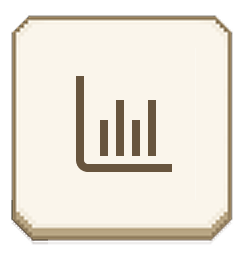
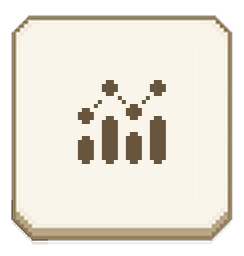
feat : 포착 도움말 모달과 권한 토스트 추가
- 포착 도움말 버튼 이미지를 변경하고 확률 안내 모달을 연결
- 카메라 권한 승인 후 하단 안내 토스트를 표시
- 모달 닫기 및 토스트 페이드 애니메이션을 적용

Changed region(s): [[0.2869, 0.2812, 0.7172, 0.6875]]

diff --git a/src/features/capture-photo/ui/CameraCaptureView.tsx b/src/features/capture-photo/ui/CameraCaptureView.tsx
@@ -5,7 +5,9 @@ import { useEffect, useRef, useState } from 'react';
 import {
   ActivityIndicator,
   Alert,
+  Animated,
   Image,
+  Modal,
   Pressable,
   StyleSheet,
   Text,
@@ -30,6 +32,8 @@ const SHUTTER_BUTTON_IMAGE = require('@/src/shared/assets/images/capture/shutter
 const CAPTURE_LIMIT_IMAGE = require('@/src/shared/assets/images/capture/capture-limit.png');
 const CAPTURE_COIN_DIALOG_IMAGE = require('@/src/shared/assets/images/capture/capture-coin-dialog.png');
 const CAMERA_PERMISSION_DIALOG_IMAGE = require('@/src/shared/assets/images/capture/camera-permission-dialog.png');
+const CAPTURE_PROBABILITY_MODAL_IMAGE = require('@/src/shared/assets/images/capture/capture-probability-modal.png');
+const CAMERA_PERMISSION_TOAST_IMAGE = require('@/src/shared/assets/images/capture/camera-permission-toast.png');
 const CAMERA_CARD_ASPECT_RATIO = 426 / 656;
 const CAMERA_CARD_HORIZONTAL_MARGIN = 11;
 const CAMERA_CARD_BUTTON_GAP = 24;
@@ -48,6 +52,10 @@ export function CameraCaptureView() {
   const [remainingCaptureCount, setRemainingCaptureCount] =
     useState(MAX_CAPTURE_COUNT);
   const [isCoinDialogVisible, setIsCoinDialogVisible] = useState(false);
+  const [isHelpModalVisible, setIsHelpModalVisible] = useState(false);
+  const [isPermissionToastVisible, setIsPermissionToastVisible] =
+    useState(false);
+  const permissionToastOpacity = useRef(new Animated.Value(0)).current;
   const insets = useSafeAreaInsets();
   const cameraCardTop = insets.top + 117;
   const bottomControlsTop =
@@ -69,6 +77,48 @@ export function CameraCaptureView() {
 
     return () => clearInterval(guideTimer);
   }, []);
+
+  useEffect(() => {
+    if (!isPermissionToastVisible || !permission?.granted) {
+      return;
+    }
+
+    permissionToastOpacity.setValue(0);
+
+    const toastAnimation = Animated.sequence([
+      Animated.timing(permissionToastOpacity, {
+        duration: 200,
+        toValue: 1,
+        useNativeDriver: true,
+      }),
+      Animated.delay(2000),
+      Animated.timing(permissionToastOpacity, {
+        duration: 200,
+        toValue: 0,
+        useNativeDriver: true,
+      }),
+    ]);
+
+    toastAnimation.start(({ finished }) => {
+      if (finished) {
+        setIsPermissionToastVisible(false);
+      }
+    });
+
+    return () => toastAnimation.stop();
+  }, [
+    isPermissionToastVisible,
+    permission?.granted,
+    permissionToastOpacity,
+  ]);
+
+  const handleRequestPermission = async () => {
+    const nextPermission = await requestPermission();
+
+    if (nextPermission.granted) {
+      setIsPermissionToastVisible(true);
+    }
+  };
 
   const handleCapture = async () => {
     if (
@@ -163,7 +213,7 @@ export function CameraCaptureView() {
             <Pressable
               accessibilityLabel="카메라 권한 허용하기"
               accessibilityRole="button"
-              onPress={requestPermission}
+              onPress={handleRequestPermission}
               style={styles.permissionDialogAllowButton}
             />
           </View>
@@ -331,12 +381,7 @@ export function CameraCaptureView() {
         <Pressable
           accessibilityLabel="촬영 도움말"
           accessibilityRole="button"
-          onPress={() =>
-            Alert.alert(
-              '촬영 도움말',
-              '동물이 흰색 프레임 안에 들어오도록 맞춘 뒤 촬영해 주세요.',
-            )
-          }
+          onPress={() => setIsHelpModalVisible(true)}
           style={({ pressed }) => [
             styles.helpButton,
             pressed && styles.buttonPressed,
@@ -349,6 +394,26 @@ export function CameraCaptureView() {
           />
         </Pressable>
       </View>
+
+      {isPermissionToastVisible && (
+        <Animated.View
+          pointerEvents="none"
+          style={[
+            styles.permissionToast,
+            {
+              bottom: insets.bottom + 108,
+              opacity: permissionToastOpacity,
+            },
+          ]}
+        >
+          <Image
+            accessibilityLabel="카메라 접근을 허용했습니다."
+            resizeMode="contain"
+            source={CAMERA_PERMISSION_TOAST_IMAGE}
+            style={styles.permissionToastImage}
+          />
+        </Animated.View>
+      )}
 
       {isCoinDialogVisible && (
         <View style={styles.dialogOverlay}>
@@ -380,6 +445,31 @@ export function CameraCaptureView() {
           </View>
         </View>
       )}
+
+      <Modal
+        animationType="fade"
+        onRequestClose={() => setIsHelpModalVisible(false)}
+        statusBarTranslucent
+        transparent
+        visible={isHelpModalVisible}
+      >
+        <View style={styles.helpModalOverlay}>
+          <View style={styles.helpModal}>
+            <Image
+              accessibilityLabel="내 포착 확률 보기"
+              resizeMode="contain"
+              source={CAPTURE_PROBABILITY_MODAL_IMAGE}
+              style={styles.helpModalImage}
+            />
+            <Pressable
+              accessibilityLabel="포착 확률 안내 닫기"
+              accessibilityRole="button"
+              onPress={() => setIsHelpModalVisible(false)}
+              style={styles.helpModalCloseButton}
+            />
+          </View>
+        </View>
+      </Modal>
     </View>
   );
 }
@@ -575,6 +665,17 @@ const styles = StyleSheet.create({
   disabledButton: {
     opacity: 0.45,
   },
+  permissionToast: {
+    position: 'absolute',
+    zIndex: 9,
+    width: 293,
+    height: 54,
+    alignSelf: 'center',
+  },
+  permissionToastImage: {
+    width: 293,
+    height: 54,
+  },
   dialogOverlay: {
     ...StyleSheet.absoluteFillObject,
     zIndex: 10,
@@ -610,6 +711,27 @@ const styles = StyleSheet.create({
     bottom: 30,
     width: 103,
     height: 36,
+  },
+  helpModalOverlay: {
+    flex: 1,
+    alignItems: 'center',
+    justifyContent: 'center',
+    backgroundColor: 'rgba(31, 29, 27, 0.68)',
+  },
+  helpModal: {
+    width: 328,
+    height: 626,
+  },
+  helpModalImage: {
+    width: 328,
+    height: 626,
+  },
+  helpModalCloseButton: {
+    position: 'absolute',
+    top: 8,
+    right: 8,
+    width: 40,
+    height: 40,
   },
   permissionScreen: {
     flex: 1,
